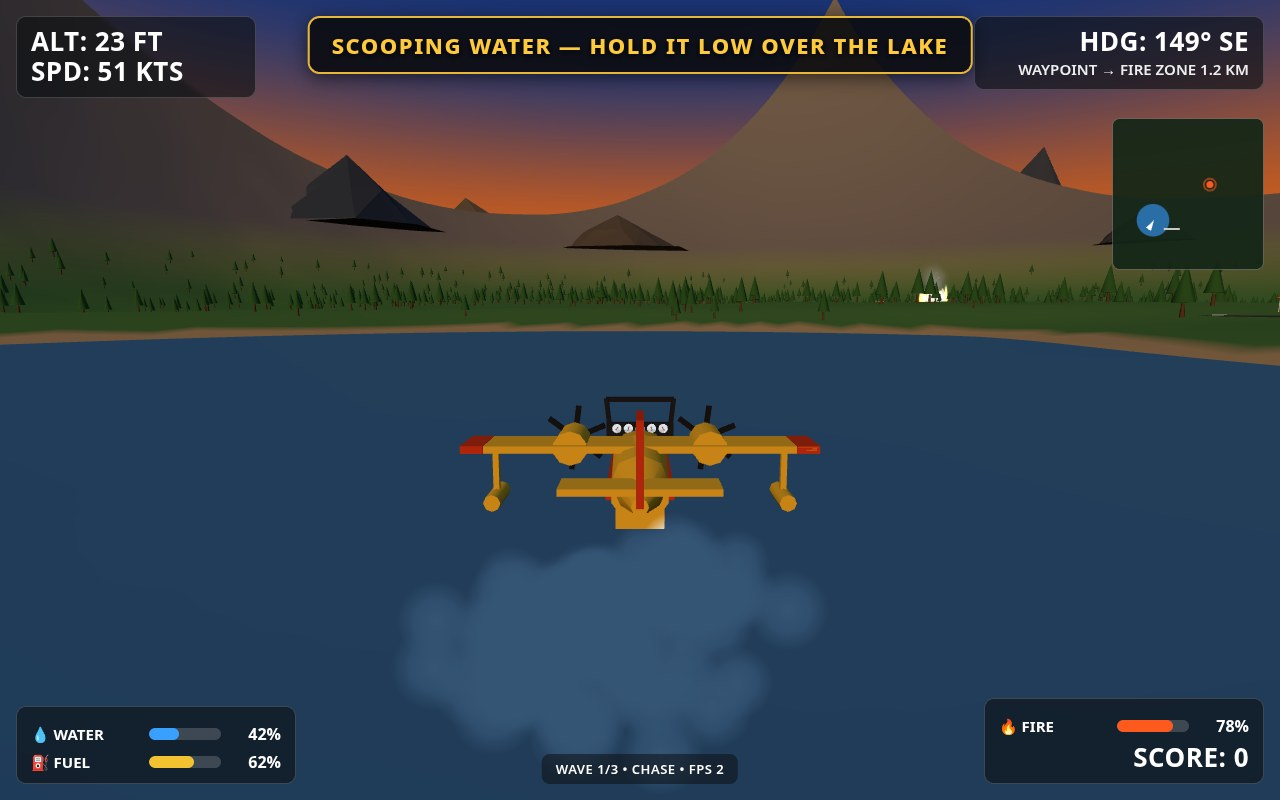
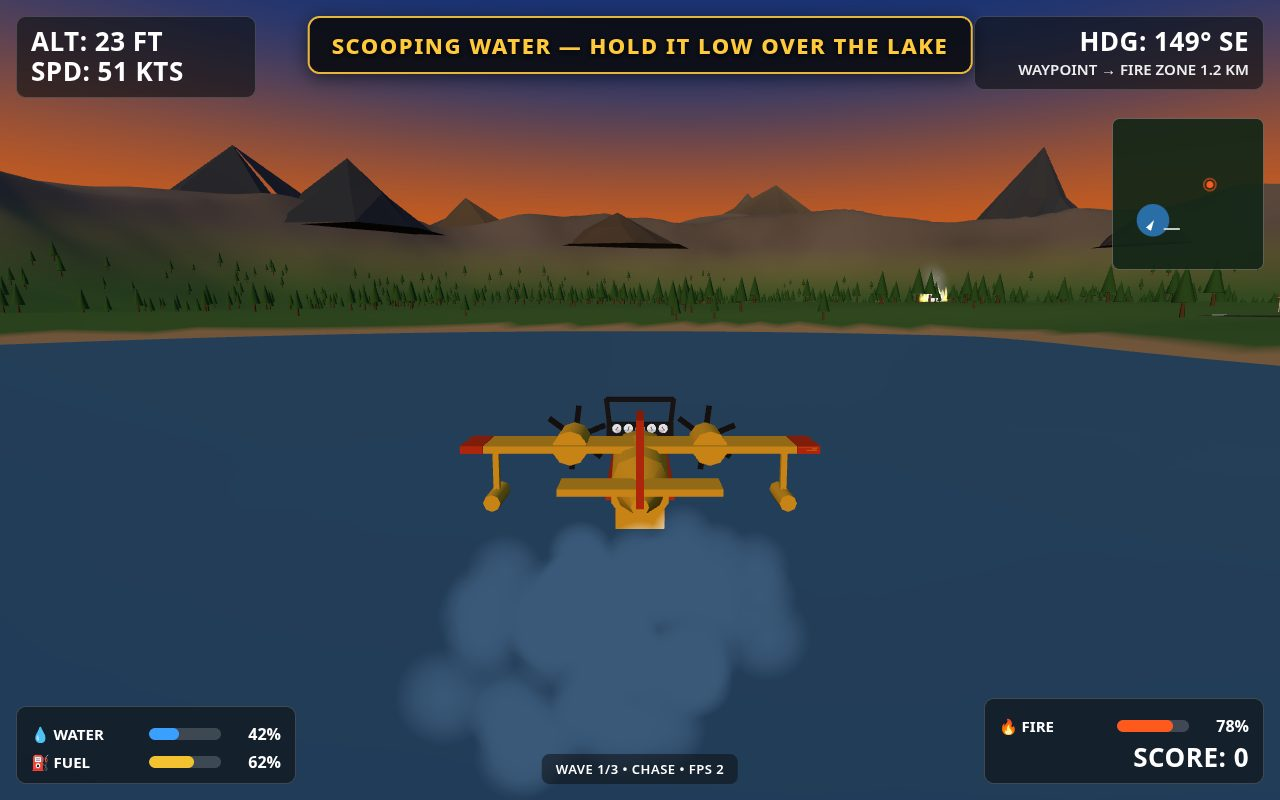
Api Langit: fix flag 3 — jagged rocky mountain rim, no more tan pyramid
Terrain rim capped at r=1.0 (corners spiked to ~1050 m and read as one
giant smooth tan pyramid from the lake) and roughened with FBM noise so
the ridge silhouette is jagged; high-ground rock colour mottled with
darker patches. Screenshots re-rendered from the game.

diff --git a/game/src/world.js b/game/src/world.js
@@ -23,7 +23,13 @@ export function makeTerrainHeight(seed) {
   return function terrainHeight(x, z) {
     const r = Math.hypot(x, z) / worldHalf;
     // Mountain rim: only beyond r=0.62, so the valley floor stays flat.
-    const rim = Math.pow(Math.max(0, r - 0.62) / 0.38, 2) * 240;
+    // The radius is capped at 1.0: without the cap the square terrain's
+    // corners (r=1.41) spike to ~1050 m and read as one giant smooth tan
+    // pyramid from the lake. The rim is also roughened with noise so the
+    // ridge silhouette is jagged, not a clean cone.
+    const rc = Math.min(r, 1.0);
+    const rimBase = Math.pow(Math.max(0, rc - 0.62) / 0.38, 2) * 240;
+    const rim = rimBase * (0.55 + 0.9 * fbm(x * 0.0016 + 31.7, z * 0.0016 + 11.2));
     // Rolling hills, masked out near the lake and the strip so both stay clean.
     // (falloff is 1 close and 0 far, so the mask is its inverse.)
     const dLake = Math.hypot(x - lakeCenter.x, z - lakeCenter.z);
@@ -92,8 +98,12 @@ export function createWorld(scene, seed) {
   const cGrass = new THREE.Color(0x4a7a3a);
   const cGrassDry = new THREE.Color(0x7a8a3f);
   const cRock = new THREE.Color(0x6e6a66);
+  const cRockDark = new THREE.Color(0x46423e);
   const cSand = new THREE.Color(0xb59a6a);
   const cScorch = new THREE.Color(0x2e2620);
+  // Separate noise field for rock patches, so high ground is mottled
+  // instead of one uniform tan.
+  const cfbm = makeFbm(seed + 101);
   const tmp = new THREE.Color();
   for (let i = 0; i < pos.count; i++) {
     const x = pos.getX(i);
@@ -104,6 +114,10 @@ export function createWorld(scene, seed) {
     const hN = clamp01(h / 180);
     tmp.copy(cGrass).lerp(cGrassDry, clamp01((h - 40) / 90));
     tmp.lerp(cRock, hN * hN);
+    // Rocky variation: darker patches on high ground so distant ridges
+    // read as broken rock instead of uniform tan.
+    const rockPatch = clamp01((cfbm(x * 0.004 + 53.1, z * 0.004 + 17.9) - 0.3) * 1.4);
+    tmp.lerp(cRockDark, rockPatch * hN * hN);
     // Sandy shore where the ground meets the water.
     const dLake = Math.hypot(x - lakeCenter.x, z - lakeCenter.z);
     if (h < waterLevel + 3 && dLake < lakeRadius + 90) tmp.copy(cSand).lerp(tmp, 0.35);
